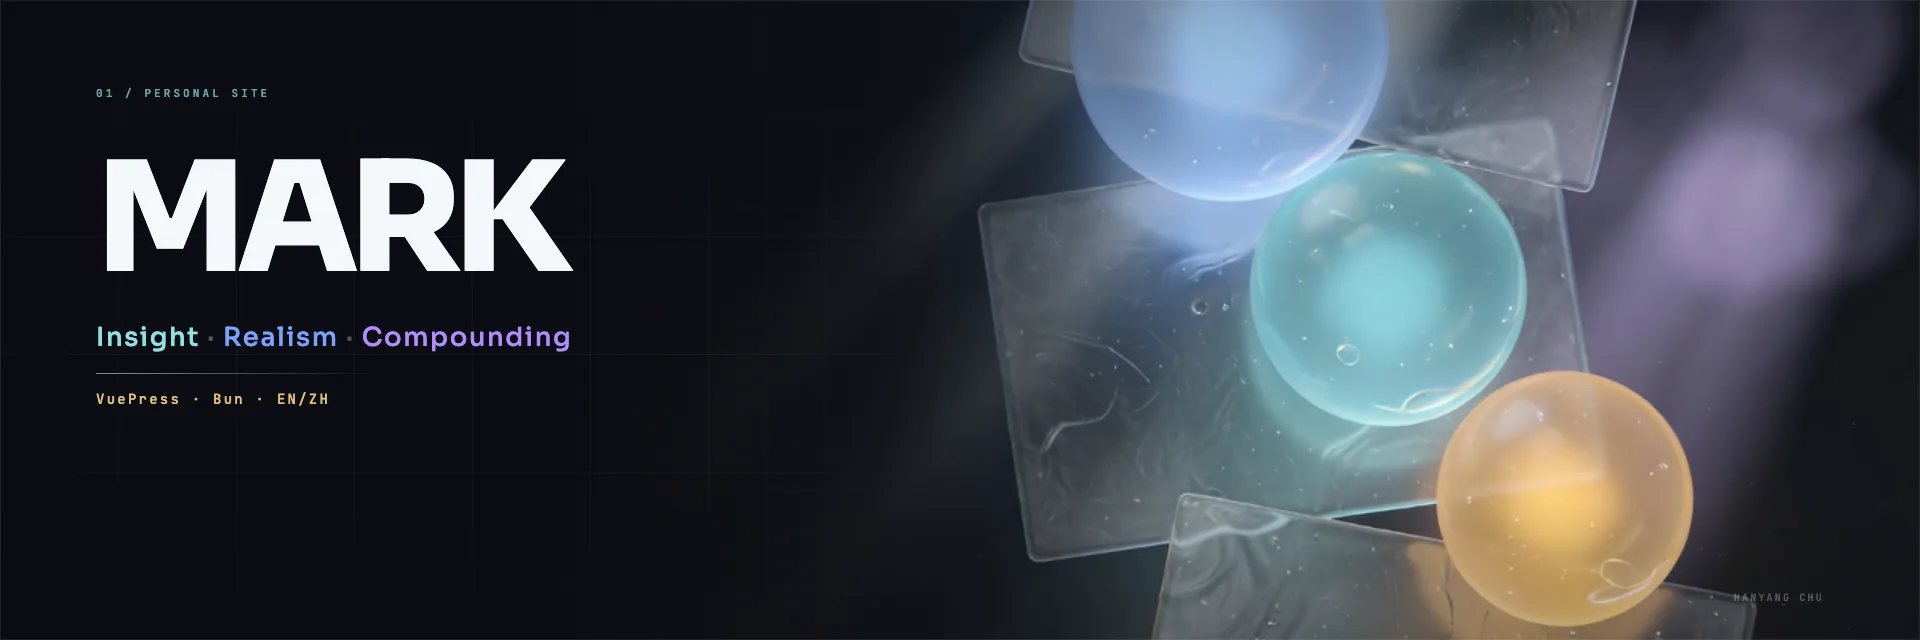
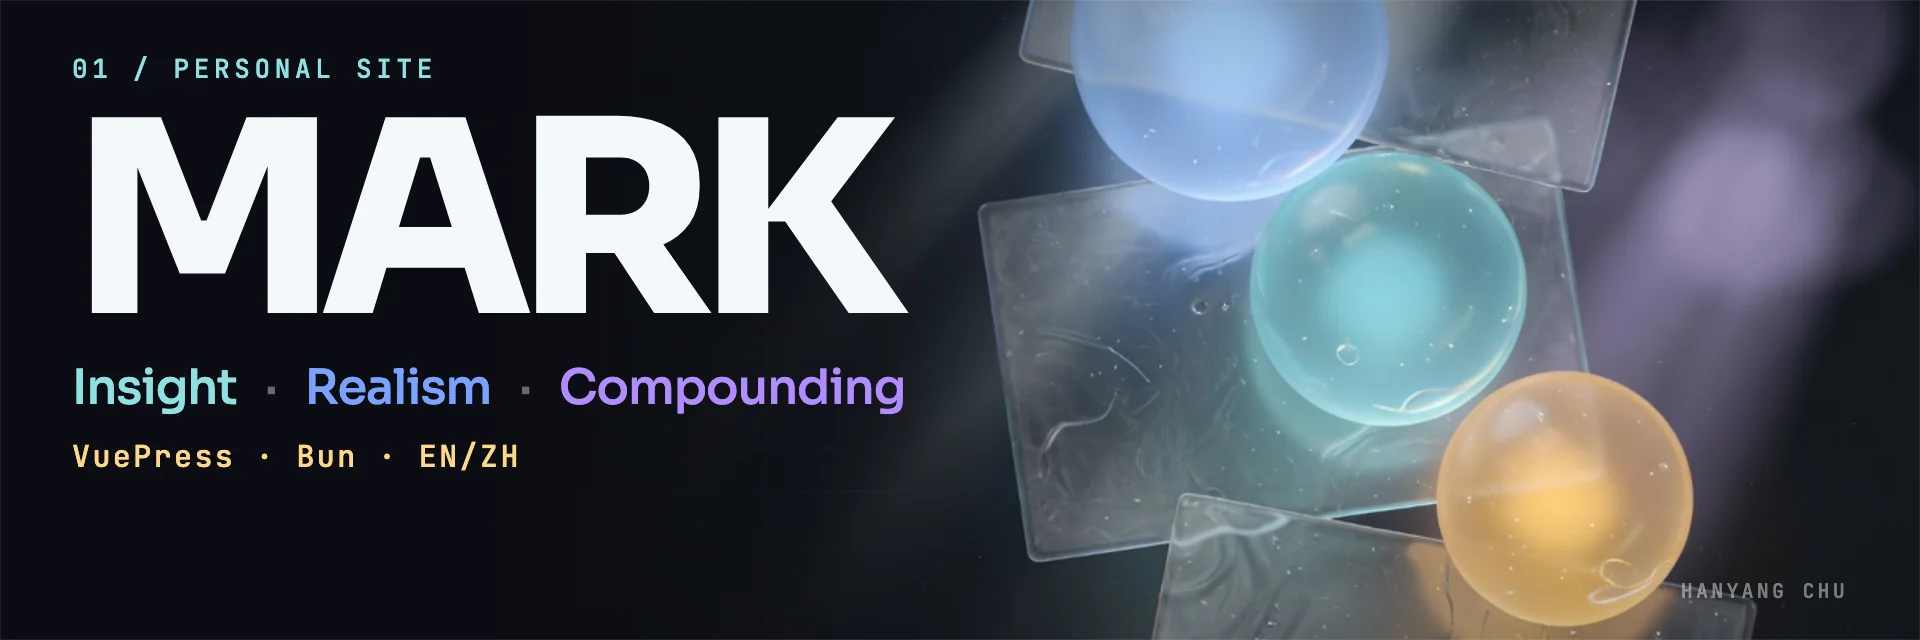
docs: enlarge README poster type
Keep the existing plate. Scale the lockup so MARK and the principle
line stay readable at GitHub's ~888px preview width.

diff --git a/assets/readme/poster.html b/assets/readme/poster.html
@@ -58,19 +58,8 @@
       position: absolute;
       inset: 0;
       background:
-        linear-gradient(90deg, #0b0d12 0%, #0b0d12 28%, rgba(11, 13, 18, 0.72) 46%, transparent 62%),
-        linear-gradient(180deg, rgba(11, 13, 18, 0.22) 0%, transparent 28%, transparent 78%, rgba(11, 13, 18, 0.28) 100%);
-    }
-
-    .grid {
-      position: absolute;
-      inset: 0;
-      background-image:
-        linear-gradient(rgba(186, 201, 227, 0.055) 1px, transparent 1px),
-        linear-gradient(90deg, rgba(186, 201, 227, 0.055) 1px, transparent 1px);
-      background-size: 118px 118px;
-      mask-image: radial-gradient(ellipse 70% 80% at 22% 50%, #000 0%, transparent 72%);
-      pointer-events: none;
+        linear-gradient(90deg, #0b0d12 0%, #0b0d12 24%, rgba(11, 13, 18, 0.78) 42%, transparent 58%),
+        linear-gradient(180deg, rgba(11, 13, 18, 0.18) 0%, transparent 22%, transparent 80%, rgba(11, 13, 18, 0.22) 100%);
     }
 
     .rim {
@@ -82,9 +71,9 @@
 
     .type {
       position: absolute;
-      left: 96px;
-      top: 88px;
-      width: 1024px;
+      left: 72px;
+      top: 56px;
+      width: 1120px;
       color: #f4f7fb;
     }
 
@@ -92,64 +81,58 @@
       margin: 0;
       font-family: "JetBrains Mono", ui-monospace, monospace;
       font-weight: 500;
-      font-size: 11px;
-      letter-spacing: 0.28em;
+      font-size: 26px;
+      letter-spacing: 0.18em;
       line-height: 1;
-      color: rgba(142, 224, 227, 0.72);
-      text-transform: none;
+      color: #8ee0e3;
     }
 
     h1 {
-      margin: 56px 0 0;
+      margin: 28px 0 0;
       font-family: "Sora", Inter, system-ui, sans-serif;
       font-weight: 800;
-      font-size: 152px;
-      letter-spacing: -0.055em;
-      line-height: 0.86;
+      font-size: 268px;
+      letter-spacing: -0.06em;
+      line-height: 0.84;
       color: #f4f7fb;
     }
 
     .principles {
-      margin: 36px 0 0;
+      display: flex;
+      flex-wrap: wrap;
+      gap: 18px 28px;
+      margin: 28px 0 0;
       font-family: "Sora", Inter, system-ui, sans-serif;
       font-weight: 500;
-      font-size: 26px;
-      letter-spacing: 0.06em;
-      line-height: 1.2;
+      font-size: 48px;
+      letter-spacing: -0.02em;
+      line-height: 1.05;
     }
 
     .c { color: #8ee0e3; }
     .b { color: #7aa2ff; }
     .v { color: #b28cff; }
-    .dot { color: rgba(244, 247, 251, 0.32); }
-
-    .rule {
-      width: 280px;
-      height: 1px;
-      margin: 20px 0 0;
-      border: 0;
-      background: linear-gradient(90deg, rgba(244, 247, 251, 0.55), rgba(244, 247, 251, 0));
-    }
+    .dot { color: rgba(244, 247, 251, 0.4); }
 
     .stack {
-      margin: 16px 0 0;
+      margin: 22px 0 0;
       font-family: "JetBrains Mono", ui-monospace, monospace;
       font-weight: 500;
-      font-size: 14px;
-      letter-spacing: 0.16em;
-      color: rgba(255, 215, 136, 0.88);
+      font-size: 30px;
+      letter-spacing: 0.08em;
+      color: #ffd788;
     }
 
     .sig {
       position: absolute;
-      right: 96px;
+      right: 72px;
       bottom: 36px;
       margin: 0;
       font-family: "JetBrains Mono", ui-monospace, monospace;
       font-weight: 500;
-      font-size: 10px;
-      letter-spacing: 0.22em;
-      color: rgba(244, 247, 251, 0.28);
+      font-size: 20px;
+      letter-spacing: 0.16em;
+      color: rgba(244, 247, 251, 0.45);
     }
   </style>
 </head>
@@ -157,14 +140,12 @@
   <div class="poster">
     <img class="atmosphere" src="./poster-bg.jpg" alt="" />
     <div class="vignette"></div>
-    <div class="grid"></div>
     <div class="type">
       <p class="eyebrow">01  /  PERSONAL SITE</p>
       <h1>MARK</h1>
       <p class="principles">
         <span class="c">Insight</span><span class="dot"> · </span><span class="b">Realism</span><span class="dot"> · </span><span class="v">Compounding</span>
       </p>
-      <hr class="rule" />
       <p class="stack">VuePress · Bun · EN/ZH</p>
     </div>
     <p class="sig">HANYANG CHU</p>
